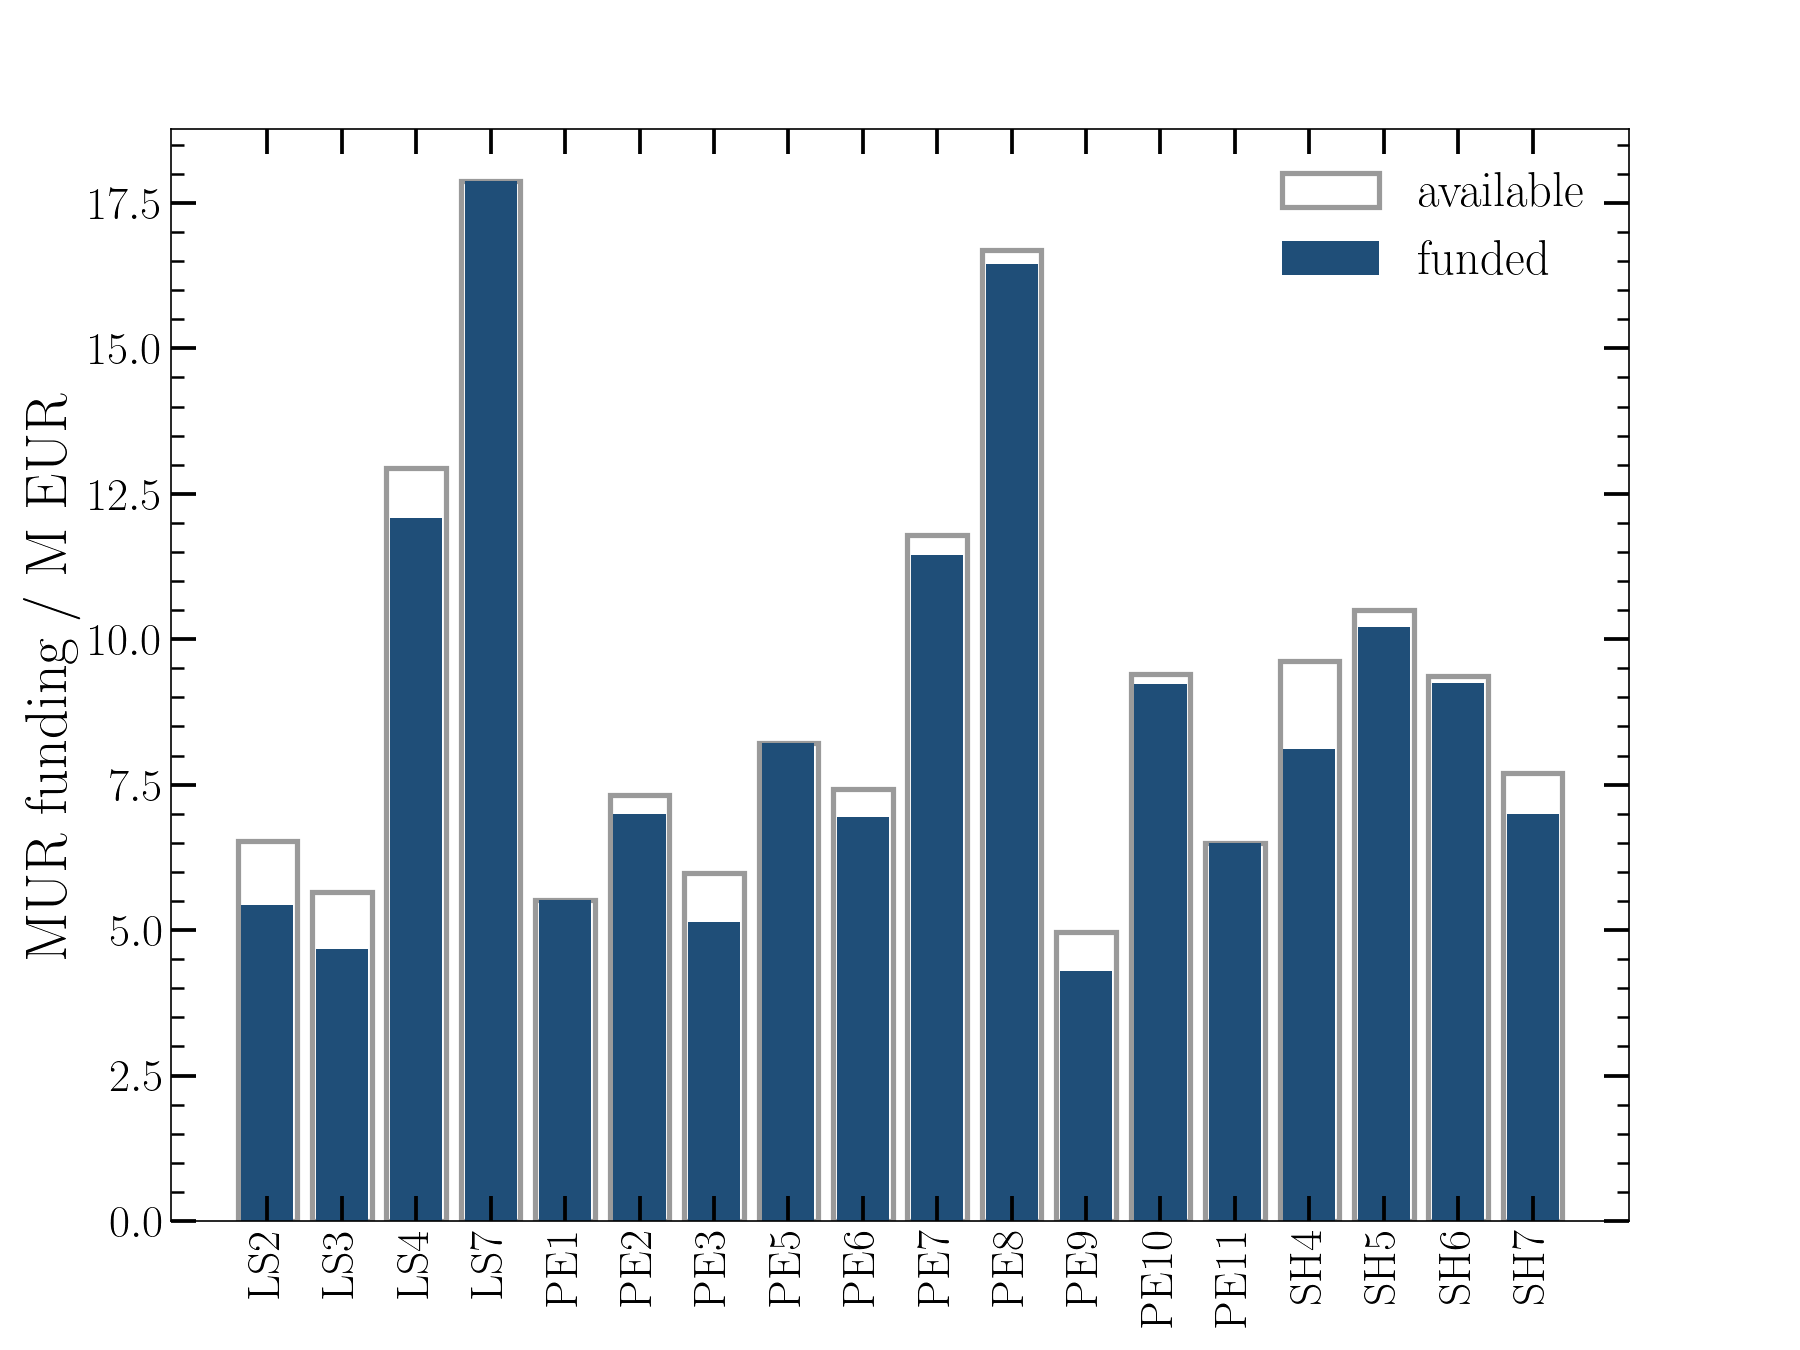
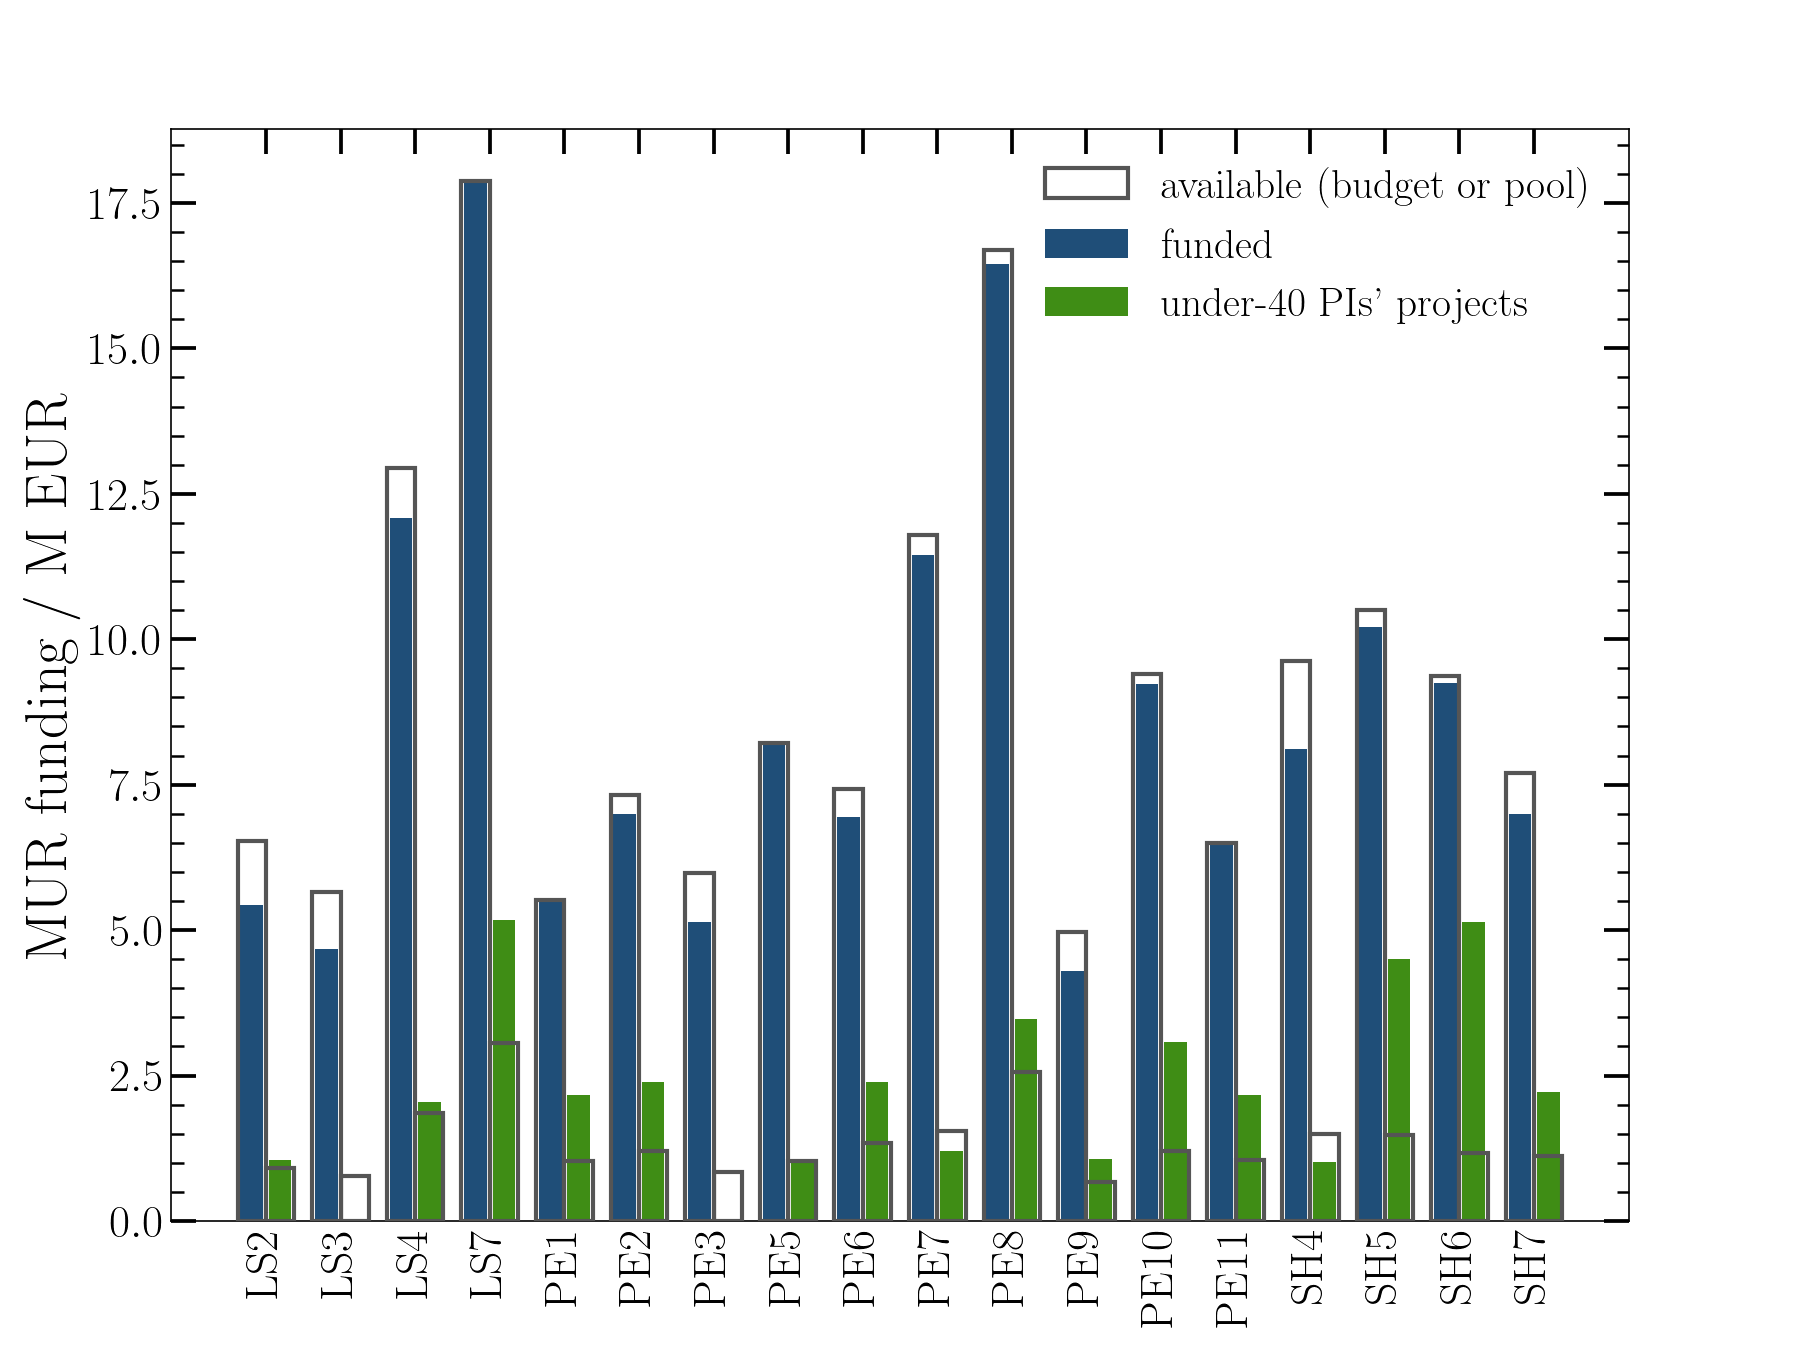
Merge the under-40 pool bars into the sector budget figure

Changed region(s): [[0.1244, 0.1244, 0.9022, 0.9644]]

diff --git a/analysis.py b/analysis.py
@@ -393,15 +393,26 @@ def fig_map_cities(d: Data, inst: pd.DataFrame, fig_dir: Path, highlight: Option
     _save(fig, ax, fig_dir, "map_cities_funding")
 
 
-def fig_sectors(d: Data, sec: pd.DataFrame, fig_dir: Path):
+def fig_sectors(d: Data, sec: pd.DataFrame, u40: pd.DataFrame, fig_dir: Path):
+    """Per sector, two bars: the budget available against the money funded, and the
+    ring-fenced under-40 pool against the money that went to projects of under-40 PIs
+    (those projects can also be funded from the ordinary pool)."""
     fig, ax = _axes(small=True)
     x = np.arange(len(sec))
-    ax.bar(x, sec["budget"] / 1e6, facecolor="none", edgecolor=GREY, lw=2.5, label="available")
-    ax.bar(x, sec["funded"] / 1e6, color=PI_COLOR, width=0.7, label="funded")
+    w = 0.38
+    for off, avail, got, color, names in (
+            (-w / 2, sec["budget"], sec["funded"], PI_COLOR, ("available", "funded")),
+            (w / 2, u40.loc[sec.index, "pool"], u40.loc[sec.index, "money_under40_projects"], U40_COLOR,
+             ("under-40 pool", tex("under-40 PIs' projects")))):
+        ax.bar(x + off, got / 1e6, width=0.8 * w, color=color, label=names[1], zorder=2)
+        ax.bar(x + off, avail / 1e6, width=w, facecolor="none", edgecolor="#555555", lw=2.0,
+               label=names[0], zorder=3)
     ax.set_xticks(x, sec.index, rotation=90)
     ax.xaxis.set_minor_locator(plt.NullLocator())
     ax.set_ylabel(r"MUR funding / M EUR")
-    ax.legend(loc="upper right")
+    handles, labels = ax.get_legend_handles_labels()  # fill, outline, fill, outline
+    ax.legend([handles[1], handles[0], handles[2]],
+              [r"available (budget or pool)", labels[0], labels[2]], loc="upper right", fontsize=20)
     _save(fig, ax, fig_dir, "sector_budgets")
 
 
@@ -487,19 +498,6 @@ def fig_collaboration(d: Data, inst: pd.DataFrame, fig_dir: Path, min_shared: in
     _save(fig, ax, fig_dir, "collaboration_map")
 
 
-def fig_under40_pool(d: Data, u40: pd.DataFrame, fig_dir: Path):
-    fig, ax = _axes(small=True)
-    x = np.arange(len(u40))
-    ax.bar(x, u40["pool"] / 1e6, facecolor="none", edgecolor=GREY, lw=2.5, label="under-40 pool")
-    ax.bar(x, u40["money_under40_projects"] / 1e6, color=U40_COLOR, width=0.7,
-           label=tex("projects of under-40 PIs"))
-    ax.set_xticks(x, u40.index, rotation=90)
-    ax.xaxis.set_minor_locator(plt.NullLocator())
-    ax.set_ylabel(r"MUR funding / M EUR")
-    ax.legend(loc="upper center")
-    _save(fig, ax, fig_dir, "under40_pool")
-
-
 def fig_gender(d: Data, gt: pd.DataFrame, fig_dir: Path):
     styles = {"PI, funded": (PI_COLOR, "o"), "Partner-unit leaders, funded": (RU_COLOR, "^")}
     macros = ["PE", "LS", "SH", "All"]
@@ -541,13 +539,12 @@ def run(out_dir: Path, use_latex: bool = True, highlight: Optional[str] = None) 
     fig_budget_drop(d, inst, fig_dir)
     fig_map_regions(d, regions, fig_dir)
     fig_map_cities(d, inst, fig_dir, highlight)
-    fig_sectors(d, sec, fig_dir)
+    fig_sectors(d, sec, u40, fig_dir)
     fig_ranking(d, sec, fig_dir)
     fig_money(d, fig_dir)
     fig_kinds(d, fig_dir)
     fig_collaboration(d, inst, fig_dir, highlight=highlight)
     fig_gender(d, gt, fig_dir)
-    fig_under40_pool(d, u40, fig_dir)
     summary = dict(n_sectors=len(d.sectors), sectors=d.sectors, budget=d.budget,
                    funded=float(d.units["mur_contribution"].sum()),
                    n_projects=int(d.units["project_code"].nunique()),
